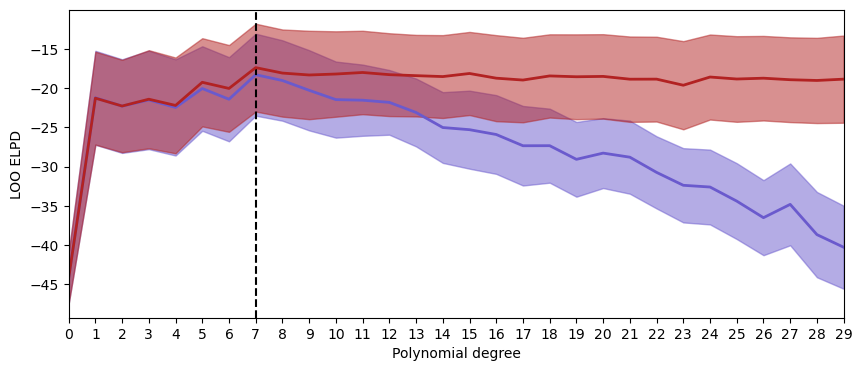
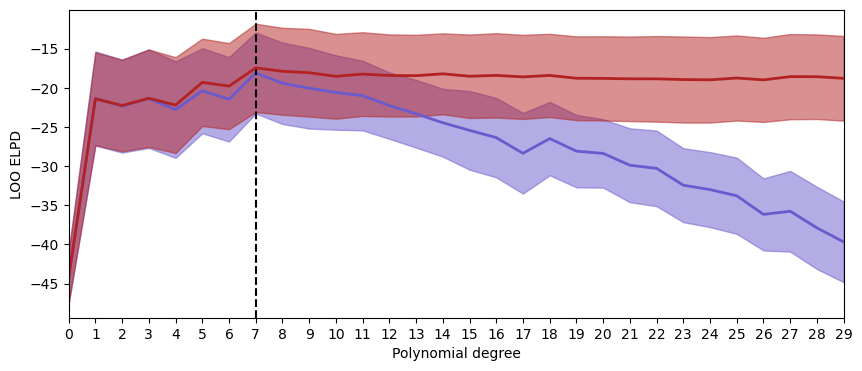
fix conclusion of bonus points section

diff --git a/docs/posts/occams-razor/occams-razor.html b/docs/posts/occams-razor/occams-razor.html
@@ -7,7 +7,7 @@
 <meta name="viewport" content="width=device-width, initial-scale=1.0, user-scalable=yes">
 
 <meta name="author" content="Bill Engels">
-<meta name="dcterms.date" content="2024-02-23">
+<meta name="dcterms.date" content="2025-03-03">
 
 <title>Priors, polynomial regressions, and ‘Occam’s Razor’ – Bill Engels' Web Log</title>
 <style>
@@ -204,7 +204,7 @@ window.Quarto = {
       <div>
       <div class="quarto-title-meta-heading">Published</div>
       <div class="quarto-title-meta-contents">
-        <p class="date">February 23, 2024</p>
+        <p class="date">March 3, 2025</p>
       </div>
     </div>
     
@@ -342,7 +342,7 @@ window.Quarto = {
 </div>
 </div>
 </div>
-<p>There are other benefits to orthogonalizing the basis, but our main reason is to have all the basis function coefficients living on the same scale. Notice in the left panel the basis functions range from [0, 2], [0, 4] and [0, 9], so scale-wise they’re all over the place. A lesser reason (for our purposes here) is that the basis functions are now orthogonal, which makes things quite a bit easier on the sampler. The two inset panels show the correlation matrix of the 3 non-constant basis vectors.</p>
+<p>There are other benefits to orthogonalizing the basis, but our main reason is to have all the basis function coefficients living on the same scale. Notice in the left panel the basis functions range from [0, 2], [0, 4] and [0, 9], so scale-wise they’re all over the place. A lesser reason (for our purposes here) is that the basis functions are now orthogonal, which makes things quite a bit easier on the sampler. The two inset panels show the correlation matrix of the first 3 non-constant basis vectors.</p>
 </section>
 </section>
 <section id="experiment-1-using-model-selection-to-find-the-best-polynomial-degree-the-usual-story" class="level1">
@@ -387,8 +387,8 @@ window.Quarto = {
 <span id="cb7-11"><a href="#cb7-11" aria-hidden="true" tabindex="-1"></a>        </span>
 <span id="cb7-12"><a href="#cb7-12" aria-hidden="true" tabindex="-1"></a>    idata_results1[<span class="ss">f"Exp 1, degree </span><span class="sc">{</span>degree<span class="sc">}</span><span class="ss">"</span>] <span class="op">=</span> idata</span></code><button title="Copy to Clipboard" class="code-copy-button"><i class="bi"></i></button></pre></div>
 <div class="cell-output cell-output-stdout">
-<pre><code>CPU times: user 2min 51s, sys: 6.61 s, total: 2min 58s
-Wall time: 2min 54s</code></pre>
+<pre><code>CPU times: user 2min 54s, sys: 6.69 s, total: 3min
+Wall time: 2min 57s</code></pre>
 </div>
 </div>
 <div id="02337804-a2d1-44c0-92b2-fa5ab86db869" class="cell" data-execution_count="8">
@@ -488,7 +488,7 @@ Wall time: 2min 54s</code></pre>
 <p>For the models in experiment 1, we put a normal prior on every <code>beta</code> coefficient that had the same standard deviation of 5. The difference between models was only the number of polynomial basis vectors. This prior actually means that we think that high order, complex, polynomial model is equally likely as a simple model. Is that really what we think?</p>
 <p>For the models in experiment 2, we’re going to downweight the scales of the priors on successive coefficients. Now it’s <em>possible</em> for the model to use really high order polynomials in the fit, but it’s going to need more evidence from the data to do so. We’ll see that this goes a step past preventing overfitting, to something more like automatic model selection.</p>
 <p>A plot of the new coefficient scales is shown below. The prior scale from experiment one is a horizontal line at 5, the same as we increase the polynomial degree. For the models in experiment 2 we have the prior scale decay starting at 5, and approaching but never reaching zero as the degree gets large. The plot shows the square root of the scale, so the prior variance.</p>
-<div id="adbeab80-601a-4675-8344-e219ed2b738c" class="cell" data-execution_count="21">
+<div id="adbeab80-601a-4675-8344-e219ed2b738c" class="cell" data-execution_count="11">
 <div class="sourceCode cell-code" id="cb12"><pre class="sourceCode python code-with-copy"><code class="sourceCode python"><span id="cb12-1"><a href="#cb12-1" aria-hidden="true" tabindex="-1"></a>gamma <span class="op">=</span> <span class="fl">1.25</span></span>
 <span id="cb12-2"><a href="#cb12-2" aria-hidden="true" tabindex="-1"></a>degree <span class="op">=</span> <span class="dv">20</span></span>
 <span id="cb12-3"><a href="#cb12-3" aria-hidden="true" tabindex="-1"></a>scale <span class="op">=</span> np.sqrt(<span class="fl">5.0</span> <span class="op">*</span> np.arange(<span class="dv">1</span>, degree <span class="op">+</span> <span class="dv">2</span>) <span class="op">**</span> (<span class="op">-</span>gamma))</span>
@@ -538,7 +538,7 @@ Wall time: 2min 54s</code></pre>
 <span id="cb14-11"><a href="#cb14-11" aria-hidden="true" tabindex="-1"></a>        </span>
 <span id="cb14-12"><a href="#cb14-12" aria-hidden="true" tabindex="-1"></a>    idata_results2[<span class="ss">f"Exp 2, degree </span><span class="sc">{</span>degree<span class="sc">}</span><span class="ss">"</span>] <span class="op">=</span> idata</span></code><button title="Copy to Clipboard" class="code-copy-button"><i class="bi"></i></button></pre></div>
 <div class="cell-output cell-output-stdout">
-<pre><code>CPU times: user 3min 4s, sys: 6.2 s, total: 3min 10s
+<pre><code>CPU times: user 3min 4s, sys: 6.21 s, total: 3min 10s
 Wall time: 3min 5s</code></pre>
 </div>
 </div>
@@ -770,18 +770,7 @@ Wall time: 3min 5s</code></pre>
                     </td>
                     <td>2000</td>
                     <td>0</td>
-                    <td>0.36</td>
-                    <td>15</td>
-                </tr>
-            
-                <tr>
-                    <td class="progress-cell">
-                        <progress max="2000" value="2000">
-                        </progress>
-                    </td>
-                    <td>2000</td>
-                    <td>0</td>
-                    <td>0.33</td>
+                    <td>0.21</td>
                     <td>15</td>
                 </tr>
             
@@ -793,7 +782,7 @@ Wall time: 3min 5s</code></pre>
                     <td>2000</td>
                     <td>0</td>
                     <td>0.35</td>
-                    <td>15</td>
+                    <td>31</td>
                 </tr>
             
                 <tr>
@@ -803,8 +792,19 @@ Wall time: 3min 5s</code></pre>
                     </td>
                     <td>2000</td>
                     <td>0</td>
-                    <td>0.40</td>
-                    <td>31</td>
+                    <td>0.37</td>
+                    <td>7</td>
+                </tr>
+            
+                <tr>
+                    <td class="progress-cell">
+                        <progress max="2000" value="2000">
+                        </progress>
+                    </td>
+                    <td>2000</td>
+                    <td>0</td>
+                    <td>0.37</td>
+                    <td>7</td>
                 </tr>
             
             
@@ -827,7 +827,7 @@ Wall time: 3min 5s</code></pre>
 <div class="sourceCode cell-code" id="cb20"><pre class="sourceCode python code-with-copy"><code class="sourceCode python"><span id="cb20-1"><a href="#cb20-1" aria-hidden="true" tabindex="-1"></a>elpd_data <span class="op">=</span> az.loo(idata)</span>
 <span id="cb20-2"><a href="#cb20-2" aria-hidden="true" tabindex="-1"></a><span class="bu">print</span>(<span class="ss">f"ELPD: </span><span class="sc">{</span>elpd_data<span class="sc">.</span>elpd_loo<span class="sc">:0.2f}</span><span class="ss">, ELPD SE: </span><span class="sc">{</span>elpd_data<span class="sc">.</span>se<span class="sc">:0.2f}</span><span class="ss">"</span>)</span></code><button title="Copy to Clipboard" class="code-copy-button"><i class="bi"></i></button></pre></div>
 <div class="cell-output cell-output-stdout">
-<pre><code>ELPD: -19.31, ELPD SE: 5.65</code></pre>
+<pre><code>ELPD: -19.55, ELPD SE: 5.65</code></pre>
 </div>
 </div>
 <div id="e793fe60-c011-415c-b071-2a1d72772fc0" class="cell" data-execution_count="19">
@@ -859,120 +859,120 @@ Wall time: 3min 5s</code></pre>
 <tr class="odd">
 <td data-quarto-table-cell-role="th">Exp 2, degree 7</td>
 <td>0</td>
-<td>-17.401063</td>
-<td>6.902136</td>
+<td>-17.454417</td>
+<td>6.941462</td>
 <td>0.000000</td>
-<td>9.787137e-01</td>
-<td>5.593505</td>
+<td>8.843849e-01</td>
+<td>5.637879</td>
 <td>0.000000</td>
+<td>True</td>
+<td>log</td>
+</tr>
+<tr class="even">
+<td data-quarto-table-cell-role="th">Exp 2, degree 8</td>
+<td>1</td>
+<td>-17.889721</td>
+<td>7.308506</td>
+<td>0.435304</td>
+<td>8.432485e-11</td>
+<td>5.551900</td>
+<td>0.345881</td>
 <td>False</td>
+<td>log</td>
+</tr>
+<tr class="odd">
+<td data-quarto-table-cell-role="th">Exp 2, degree 9</td>
+<td>2</td>
+<td>-18.075383</td>
+<td>7.693926</td>
+<td>0.620966</td>
+<td>8.439987e-11</td>
+<td>5.598566</td>
+<td>0.523907</td>
+<td>False</td>
+<td>log</td>
+</tr>
+<tr class="even">
+<td data-quarto-table-cell-role="th">Exp 1, degree 7</td>
+<td>3</td>
+<td>-18.110580</td>
+<td>8.180686</td>
+<td>0.656163</td>
+<td>9.358834e-02</td>
+<td>5.170638</td>
+<td>1.436110</td>
+<td>True</td>
+<td>log</td>
+</tr>
+<tr class="odd">
+<td data-quarto-table-cell-role="th">Exp 2, degree 14</td>
+<td>4</td>
+<td>-18.215979</td>
+<td>8.552262</td>
+<td>0.761563</td>
+<td>8.368721e-11</td>
+<td>5.167451</td>
+<td>1.050139</td>
+<td>True</td>
 <td>log</td>
 </tr>
 <tr class="even">
 <td data-quarto-table-cell-role="th">Exp 2, degree 11</td>
-<td>1</td>
-<td>-18.018749</td>
-<td>7.941087</td>
-<td>0.617687</td>
-<td>6.929968e-10</td>
-<td>5.314783</td>
-<td>0.675112</td>
-<td>True</td>
-<td>log</td>
-</tr>
-<tr class="odd">
-<td data-quarto-table-cell-role="th">Exp 2, degree 8</td>
-<td>2</td>
-<td>-18.093774</td>
-<td>7.486223</td>
-<td>0.692711</td>
-<td>6.958982e-10</td>
-<td>5.550235</td>
-<td>0.344700</td>
-<td>False</td>
-<td>log</td>
-</tr>
-<tr class="even">
-<td data-quarto-table-cell-role="th">Exp 2, degree 15</td>
-<td>3</td>
-<td>-18.146401</td>
-<td>8.808967</td>
-<td>0.745338</td>
-<td>6.906713e-10</td>
-<td>5.292928</td>
-<td>0.916263</td>
-<td>True</td>
-<td>log</td>
-</tr>
-<tr class="odd">
-<td data-quarto-table-cell-role="th">Exp 2, degree 10</td>
-<td>4</td>
-<td>-18.214279</td>
-<td>7.954499</td>
-<td>0.813216</td>
-<td>6.948321e-10</td>
-<td>5.440477</td>
-<td>0.586174</td>
-<td>True</td>
-<td>log</td>
-</tr>
-<tr class="even">
-<td data-quarto-table-cell-role="th">Exp 2, degree 12</td>
 <td>5</td>
-<td>-18.296179</td>
-<td>8.241711</td>
-<td>0.895117</td>
-<td>6.940372e-10</td>
-<td>5.276578</td>
-<td>0.706194</td>
+<td>-18.249420</td>
+<td>8.155402</td>
+<td>0.795003</td>
+<td>8.424486e-11</td>
+<td>5.345232</td>
+<td>0.717376</td>
 <td>True</td>
 <td>log</td>
 </tr>
 <tr class="odd">
-<td data-quarto-table-cell-role="th">Exp 1, degree 7</td>
+<td data-quarto-table-cell-role="th">Exp 2, degree 16</td>
 <td>6</td>
-<td>-18.303003</td>
-<td>8.361935</td>
-<td>0.901940</td>
-<td>0.000000e+00</td>
-<td>5.217531</td>
-<td>1.367474</td>
-<td>True</td>
-<td>log</td>
-</tr>
-<tr class="even">
-<td data-quarto-table-cell-role="th">Exp 2, degree 9</td>
-<td>7</td>
-<td>-18.337432</td>
-<td>7.883651</td>
-<td>0.936370</td>
-<td>6.972274e-10</td>
-<td>5.630785</td>
-<td>0.434465</td>
-<td>True</td>
-<td>log</td>
-</tr>
-<tr class="odd">
-<td data-quarto-table-cell-role="th">Exp 2, degree 13</td>
-<td>8</td>
-<td>-18.423467</td>
-<td>8.523570</td>
-<td>1.022404</td>
-<td>6.942818e-10</td>
-<td>5.194479</td>
-<td>0.808235</td>
+<td>-18.413651</td>
+<td>9.180511</td>
+<td>0.959234</td>
+<td>8.374915e-11</td>
+<td>5.385329</td>
+<td>1.087181</td>
 <td>True</td>
 <td>log</td>
 </tr>
 <tr class="even">
 <td data-quarto-table-cell-role="th">Exp 2, degree 18</td>
+<td>7</td>
+<td>-18.417945</td>
+<td>9.394612</td>
+<td>0.963528</td>
+<td>8.369683e-11</td>
+<td>5.313482</td>
+<td>1.114191</td>
+<td>True</td>
+<td>log</td>
+</tr>
+<tr class="odd">
+<td data-quarto-table-cell-role="th">Exp 2, degree 12</td>
+<td>8</td>
+<td>-18.425259</td>
+<td>8.428294</td>
+<td>0.970842</td>
+<td>8.436344e-11</td>
+<td>5.245622</td>
+<td>0.767023</td>
+<td>True</td>
+<td>log</td>
+</tr>
+<tr class="even">
+<td data-quarto-table-cell-role="th">Exp 2, degree 13</td>
 <td>9</td>
-<td>-18.457018</td>
-<td>9.384497</td>
-<td>1.055955</td>
-<td>6.915323e-10</td>
-<td>5.300959</td>
-<td>0.995212</td>
+<td>-18.448142</td>
+<td>8.545733</td>
+<td>0.993726</td>
+<td>8.429243e-11</td>
+<td>5.217694</td>
+<td>0.846622</td>
 <td>False</td>
 <td>log</td>
 </tr>
@@ -982,7 +982,7 @@ Wall time: 3min 5s</code></pre>
 </div>
 </div>
 </div>
-<p>This shows that putting a prior on <code>gamma</code> actually gives the best model in this situation, by far.</p>
+<p>It looks like in this case putting a prior on <code>gamma</code> isn’t as good as choosing <code>gamma = 1.25</code>, however, notice that the ELPD estimates are all within the standard error of each other.</p>
 </section>
 <section id="summary" class="level2">
 <h2 class="anchored" data-anchor-id="summary">Summary</h2>

diff --git a/docs/index.html b/docs/index.html
@@ -208,7 +208,7 @@ window.Quarto = {
 
 <div class="quarto-listing quarto-listing-container-default" id="listing-listing">
 <div class="list quarto-listing-default">
-<div class="quarto-post image-right" data-index="0" data-categories="bayesian" data-listing-date-sort="1708675200000" data-listing-file-modified-sort="1741041711343" data-listing-date-modified-sort="NaN" data-listing-reading-time-sort="10" data-listing-word-count-sort="1850">
+<div class="quarto-post image-right" data-index="0" data-categories="bayesian" data-listing-date-sort="1740988800000" data-listing-file-modified-sort="1741045905502" data-listing-date-modified-sort="NaN" data-listing-reading-time-sort="10" data-listing-word-count-sort="1866">
 <div class="thumbnail">
 <p><a href="./posts/occams-razor/occams-razor.html" class="no-external"></a></p><a href="./posts/occams-razor/occams-razor.html" class="no-external">
 <p><img loading="lazy" src="./posts/occams-razor/image.jpg" class="thumbnail-image"></p>
@@ -233,7 +233,7 @@ bayesian
 <div class="metadata">
 <a href="./posts/occams-razor/occams-razor.html" class="no-external">
 <div class="listing-date">
-Feb 23, 2024
+Mar 3, 2025
 </div>
 <div class="listing-author">
 Bill Engels
